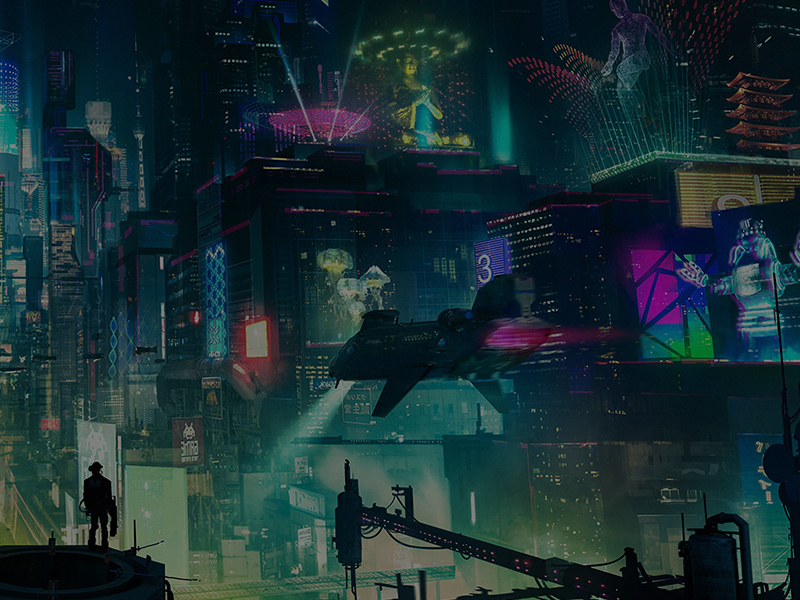
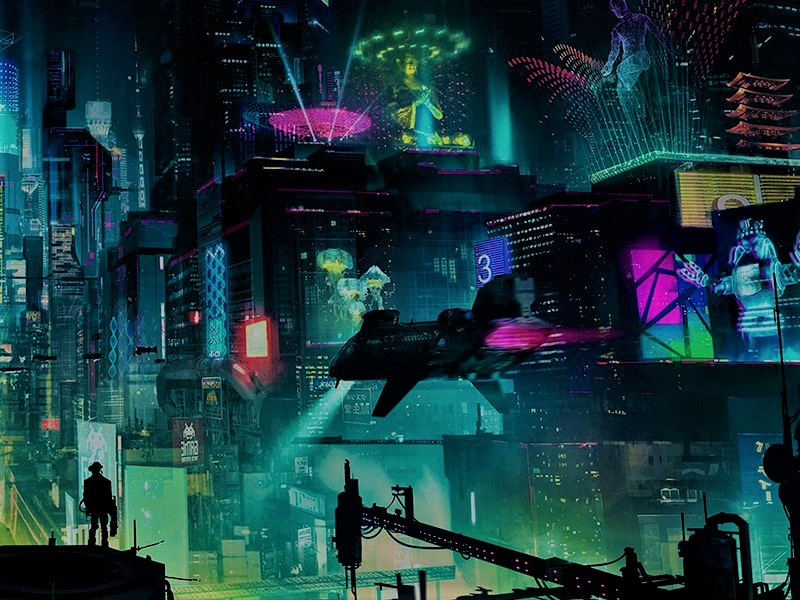
update

diff --git a/style.css b/style.css
@@ -5,7 +5,7 @@ html{
 }
 
 body{ 
-  background: url(images/background.jpg) no-repeat; 
+  background: url(images/background.png) no-repeat; 
   background-size: cover;
   font-family: 'Advent Pro', sans-serif;
   height: 100vh;
